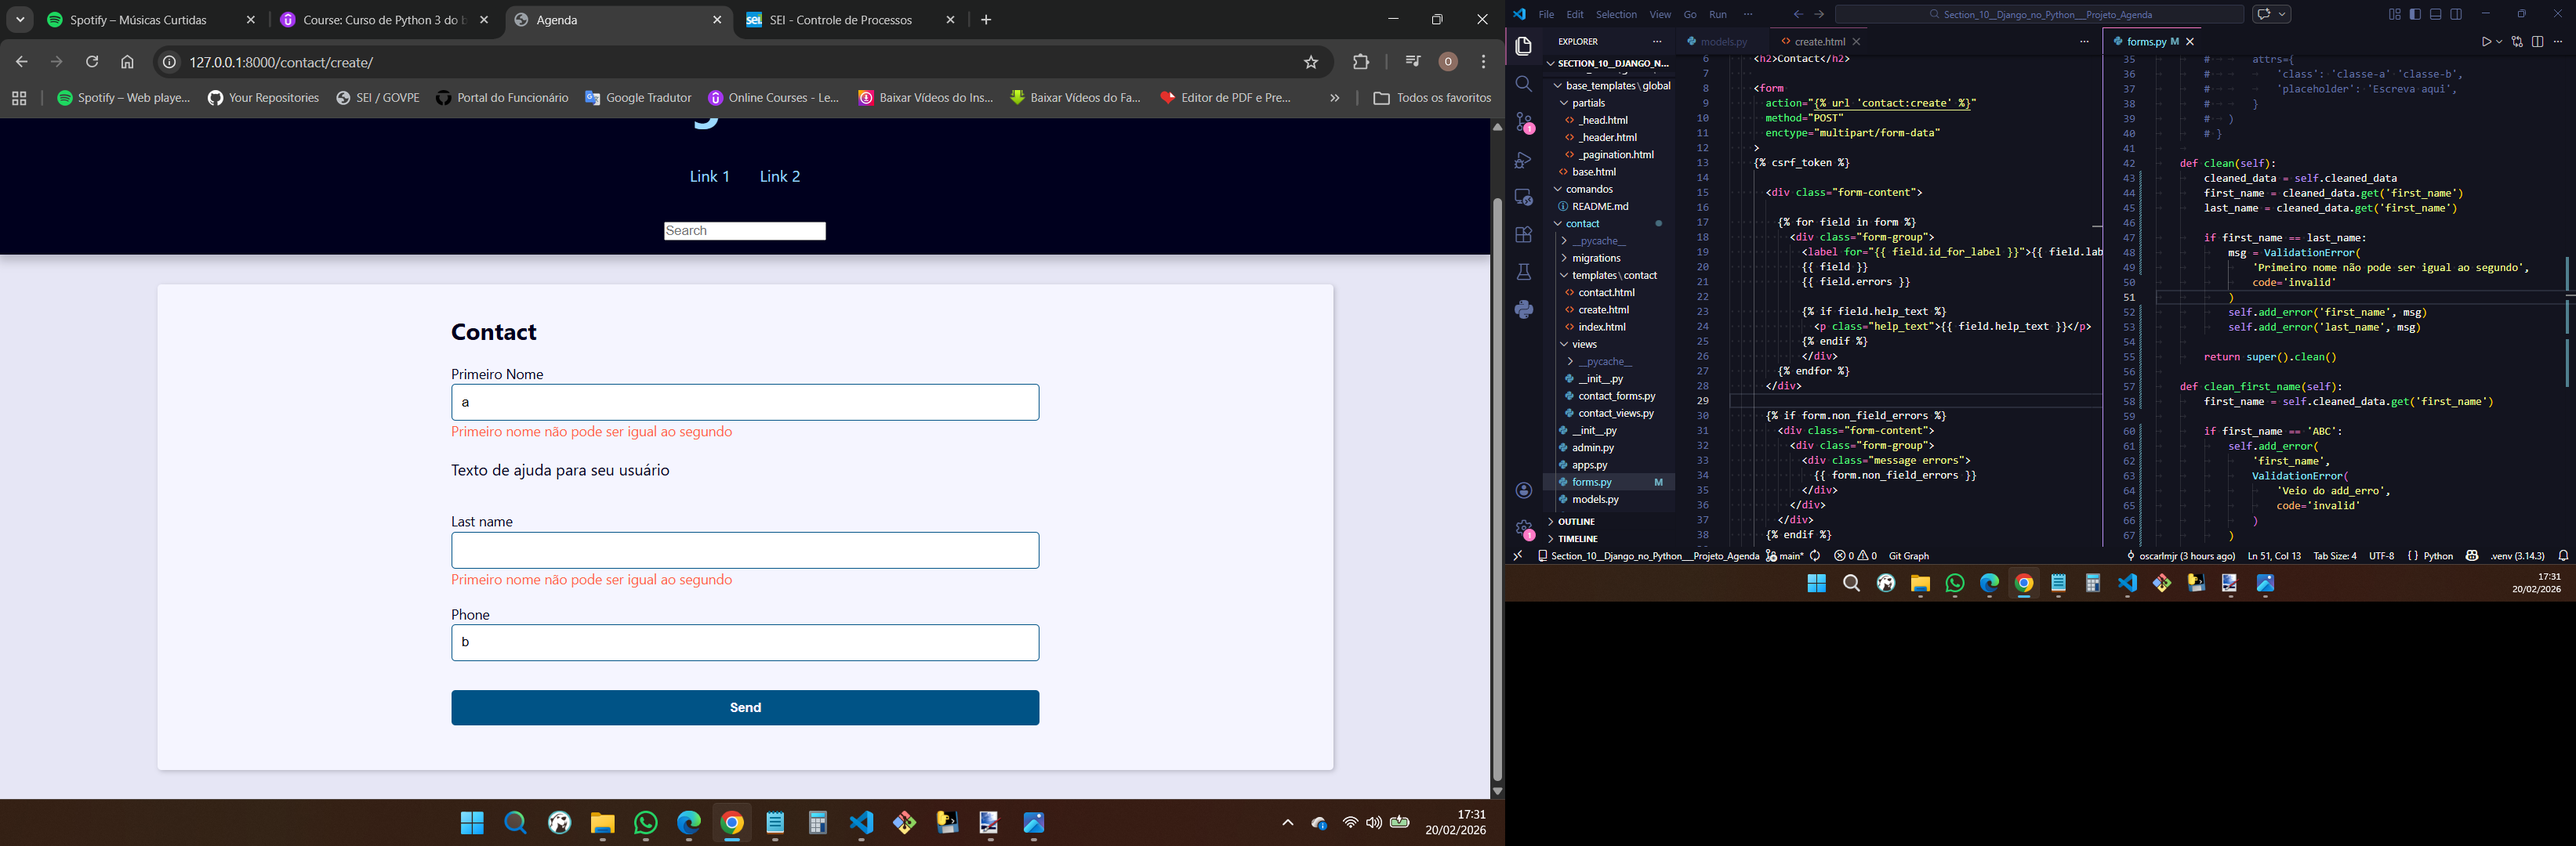
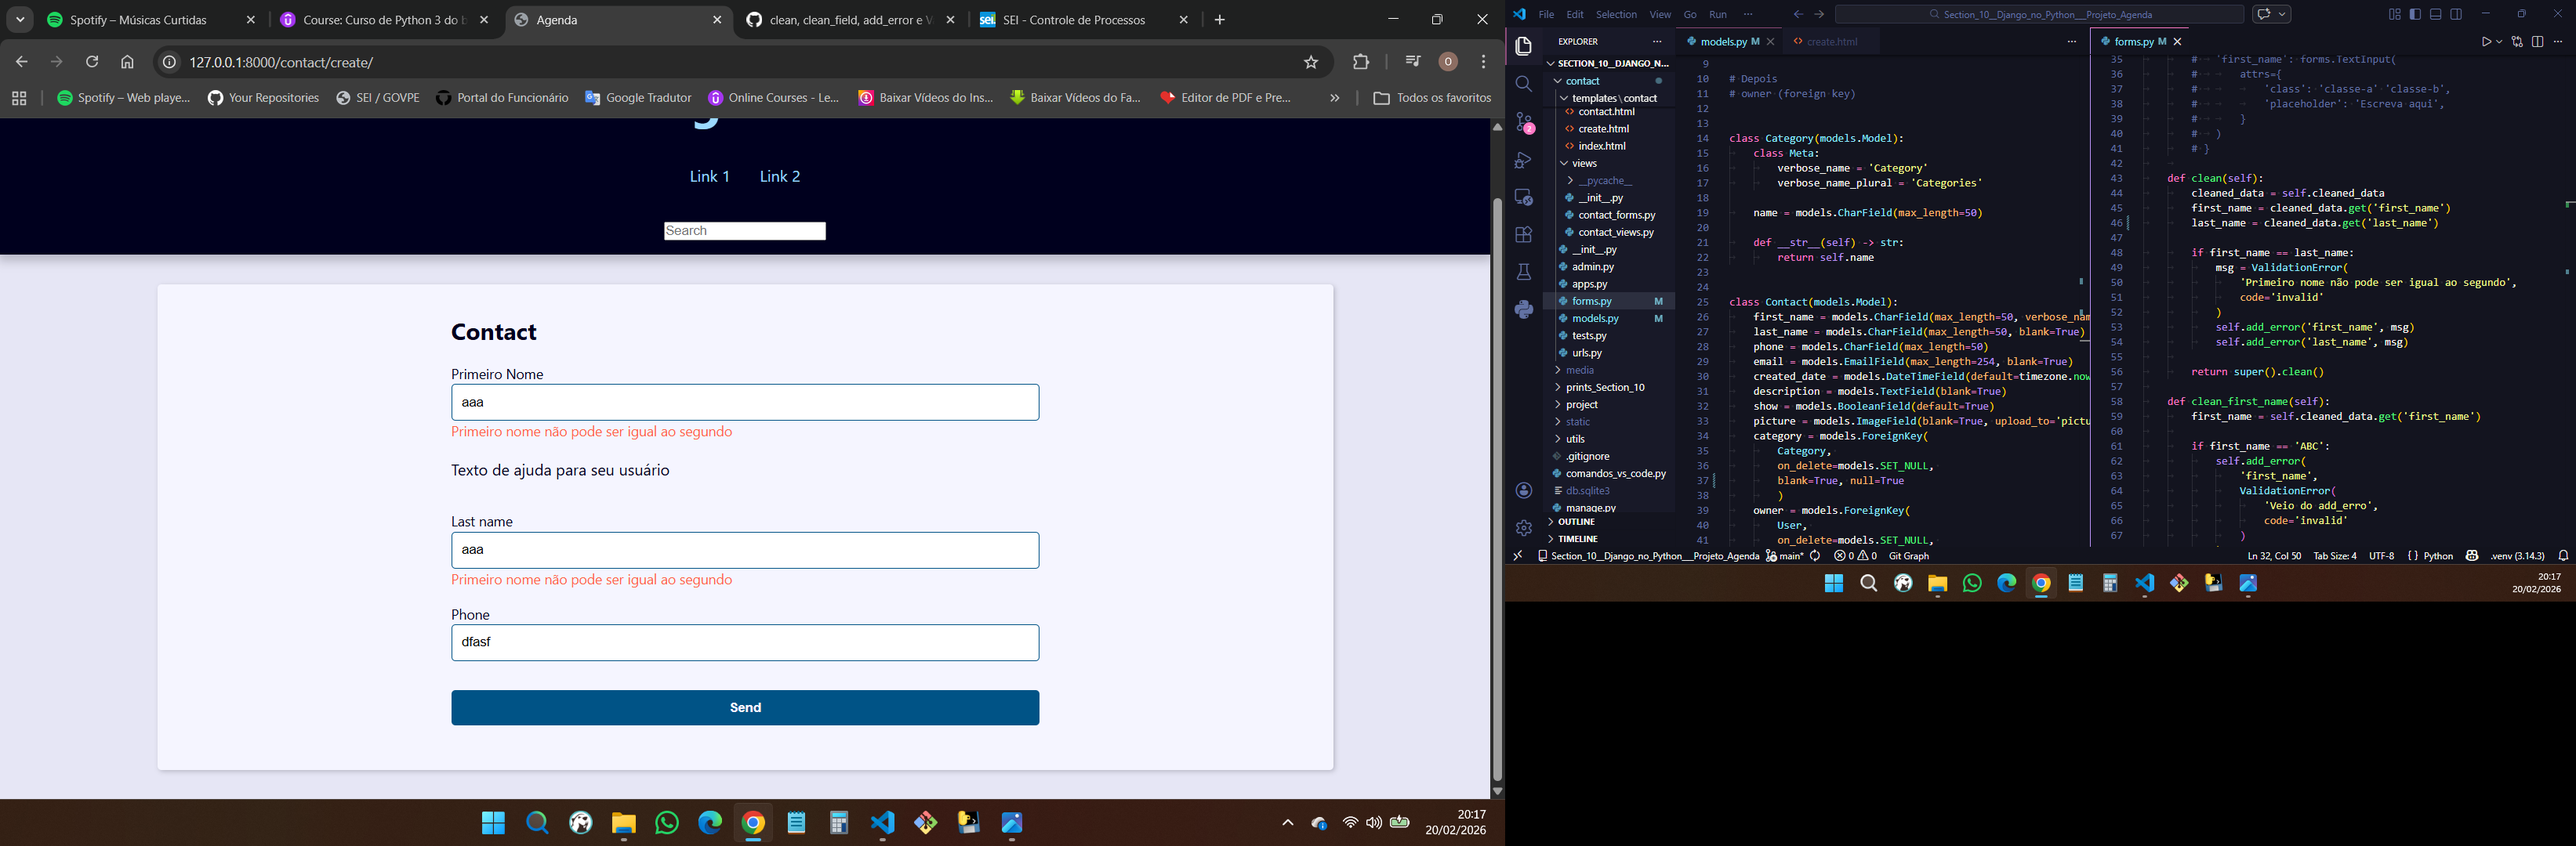
secao_10 aula_485_486

diff --git a/contact/models.py b/contact/models.py
@@ -6,8 +6,6 @@ from django.contrib.auth.models import User
 # first_name (string),  last_name (string), phone (string)
 # email (email), created_date (date), description (text)
 # category (foreign key), show (boolean), picture (imagem)
-
-# Depois
 # owner (foreign key)
 
 
@@ -34,14 +32,12 @@ class Contact(models.Model):
 	category = models.ForeignKey(
 		Category, 
 		on_delete=models.SET_NULL, 
-		blank=True, 
-		null=True
+		blank=True, null=True
 		)
 	owner = models.ForeignKey(
 		User, 
 		on_delete=models.SET_NULL, 
-		blank=True, 
-		null=True
+		blank=True, null=True
 		)
 
 	def __str__(self) -> str:

diff --git a/contact/forms.py b/contact/forms.py
@@ -29,6 +29,7 @@ class ContactForm(forms.ModelForm):
 		model = models.Contact
 		fields = (
 			'first_name', 'last_name', 'phone',
+			'email', 'description', 'category',
 			)
 		# widgets = {
 		# 	'first_name': forms.TextInput(
@@ -42,7 +43,7 @@ class ContactForm(forms.ModelForm):
 	def clean(self):
 		cleaned_data = self.cleaned_data
 		first_name = cleaned_data.get('first_name')
-		last_name = cleaned_data.get('first_name')
+		last_name = cleaned_data.get('last_name')
 
 		if first_name == last_name:
 			msg = ValidationError(
